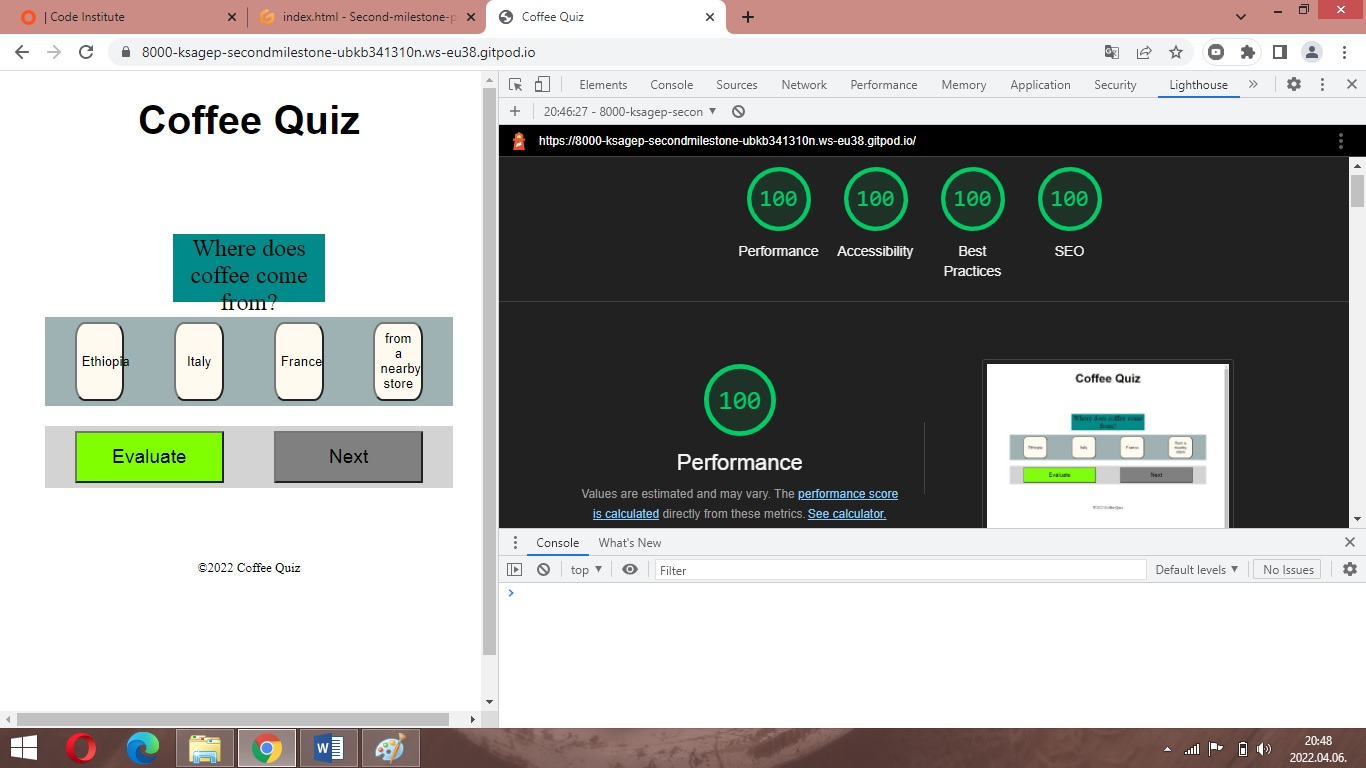
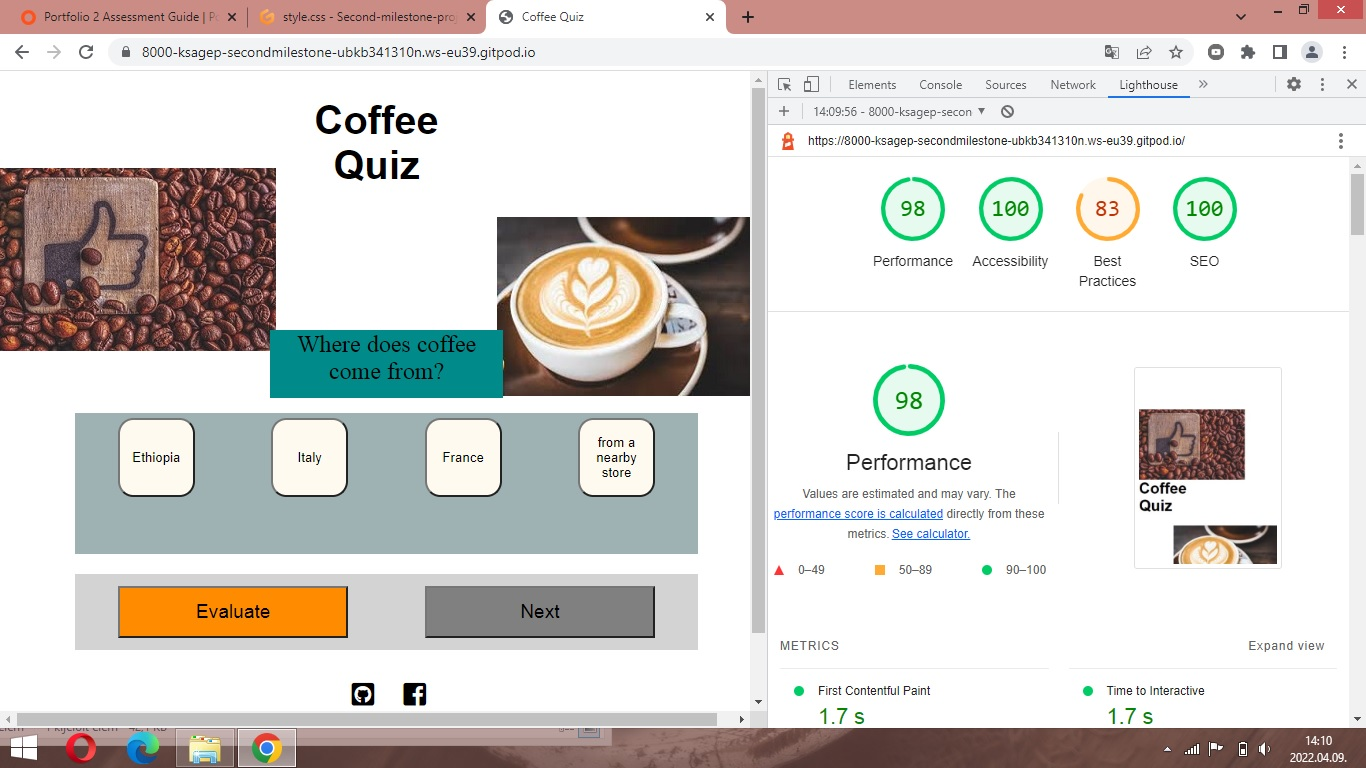
Changed one picture and put to the proper position and took the lighthouse assessments again

diff --git a/assets/css/style.css b/assets/css/style.css
@@ -19,7 +19,7 @@ body {
     font-size: 40px;
     font-family: sans-serif;
     text-align: center;
-    padding-right: 300px;
+    padding-right: 290px;
     color: black;
     
 }
@@ -30,7 +30,8 @@ body {
 }
 
 .front-image-right {
-    float: right;    
+    float: right;
+    padding-top: 2px;   
 }
 
 /* game area */
@@ -103,6 +104,17 @@ body {
 
 .next {
     background-color: gray;
+}
+
+/* for medium screen sizes from 768 px and down */
+
+@media screen and (max-width: 400px) {
+    
+    .container {
+        width: 65%;
+        height: auto;
+        margin: 0 auto;
+    }
 }
 
 /* footer */

diff --git a/index.html b/index.html
@@ -20,7 +20,7 @@
         </div>
         <h1 class="heading">Coffee Quiz</h1>
         <div>
-            <img src="assets/images/chill.jpg" alt="five minutes break with coffee" class="front-image-right">
+            <img src="assets/images/coffee is ready.jpg" alt="five minutes break with coffee" class="front-image-right">
         </div>
     </header>
             

diff --git a/README.md b/README.md
@@ -74,6 +74,8 @@ The footer is simple and it contains to my Facebook (or Meta) and GitHub as well
 - Code Institute Mentor meetings and support
 - Code Institute tutor support
 - Am I Responsive for a responsive image in README
+- mikocoffee for image of the coffee beans
+- pexels for image of cup of coffee
 
 ## Testing
 
